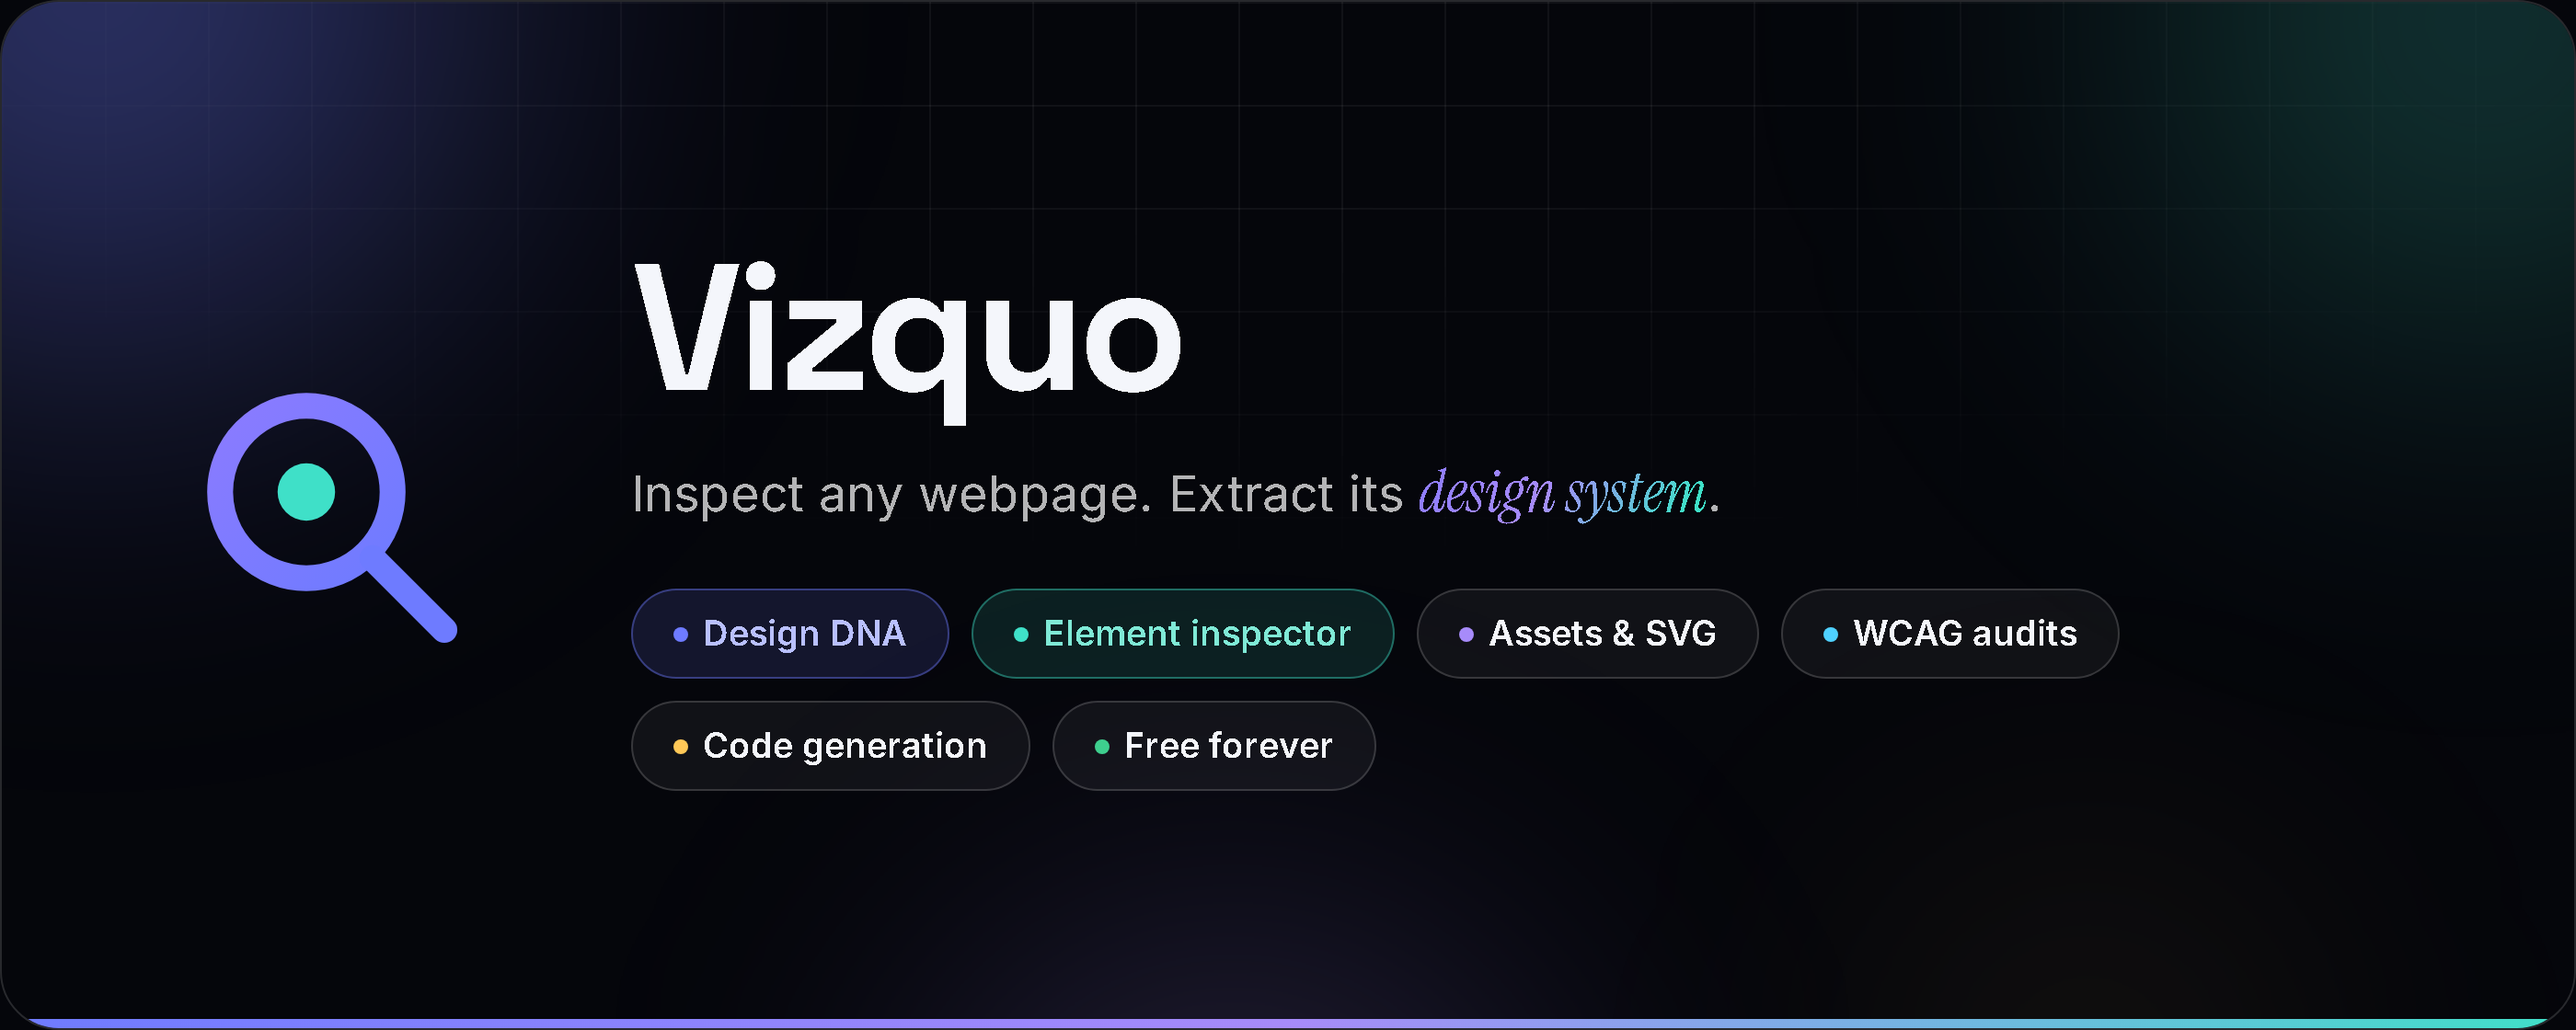
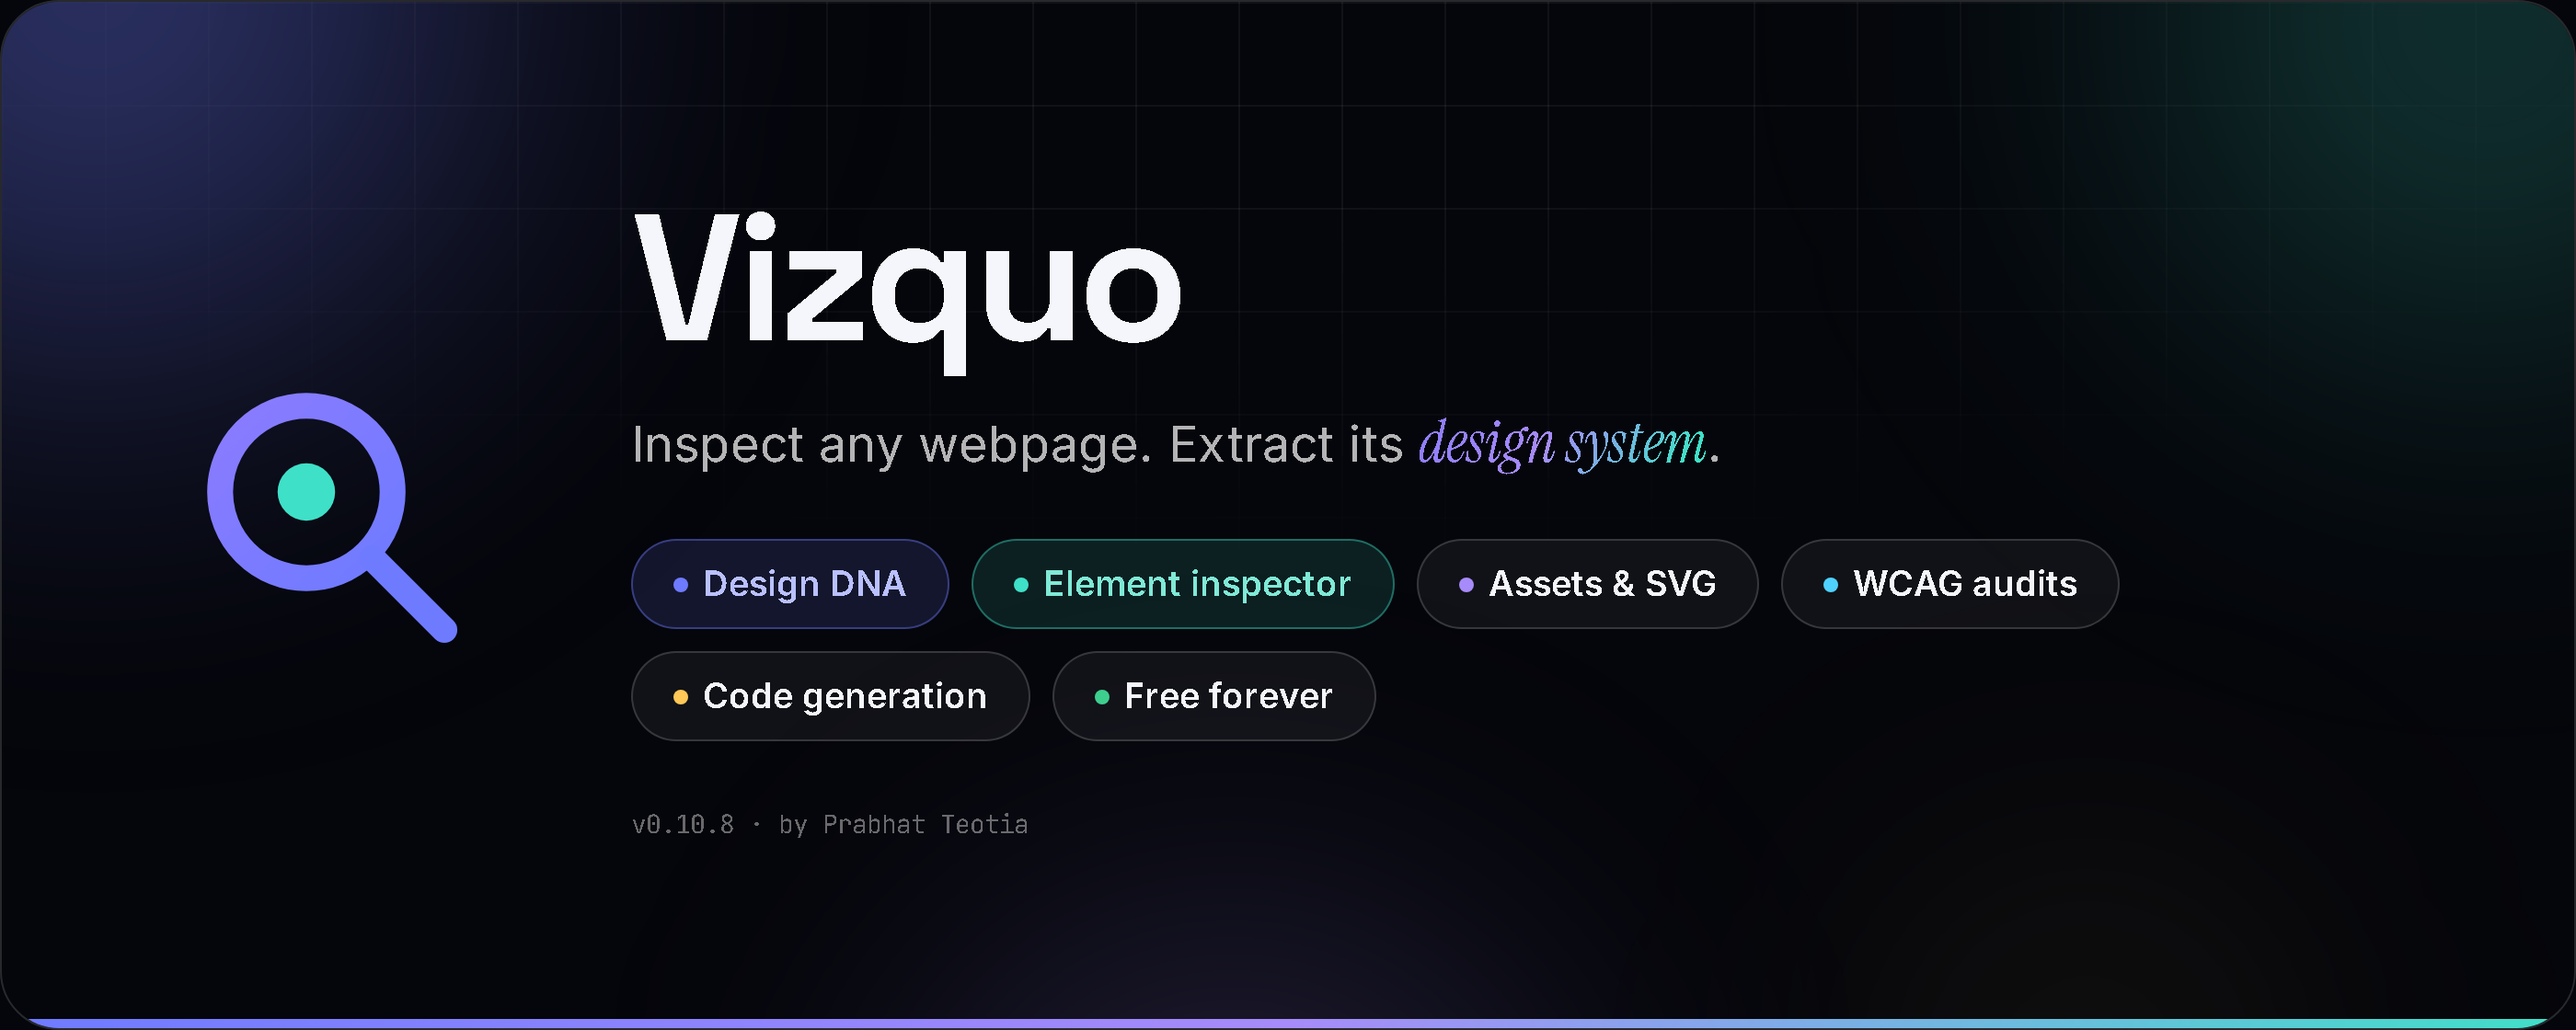
credit Prabhat Teotia as creator everywhere: APP_AUTHOR constant + Settings About panel + footer tooltip, manifest author (chrome://extensions), package.json, LICENSE copyright, README credits, landing footer/JSON-LD/hero pill, store listings publisher name, promo tiles + OG card caption, and creato

diff --git a/ui/screens/sidepanel/SettingsScreen.tsx b/ui/screens/sidepanel/SettingsScreen.tsx
@@ -21,6 +21,7 @@ import {
   AI_CUSTOM_MODEL,
   AI_MODELS,
   AI_PROVIDERS,
+  APP_AUTHOR,
   APP_NAME,
   APP_VERSION,
   INSPECTION_SCHEMA_VERSION,
@@ -875,6 +876,10 @@ export function SettingsScreen() {
       <Panel title={`About ${APP_NAME}`}>
         <div class="flex flex-col gap-1.5">
           <div class="flex items-center justify-between px-2 py-1">
+            <span class="text-[12px] text-[var(--vq-fg-muted)]">Created by</span>
+            <span class="text-[12px] font-medium text-[var(--vq-fg)]">{APP_AUTHOR}</span>
+          </div>
+          <div class="flex items-center justify-between px-2 py-1">
             <span class="text-[12px] text-[var(--vq-fg-muted)]">Version</span>
             <Badge tone="neutral" class="vq-nums">
               v{APP_VERSION}
@@ -887,8 +892,8 @@ export function SettingsScreen() {
             </Badge>
           </div>
           <p class="px-2 pt-1 text-[11px] leading-relaxed text-[var(--vq-fg-subtle)]">
-            {APP_NAME} is a design-intelligence layer for the web. All analysis runs locally;
-            nothing is uploaded, tracked, or sold.
+            {APP_NAME} is a design-intelligence layer for the web, created by {APP_AUTHOR}. All
+            analysis runs locally; nothing is uploaded, tracked, or sold.
           </p>
         </div>
       </Panel>

diff --git a/landing/index.html b/landing/index.html
@@ -25,6 +25,7 @@
   "@context": "https://schema.org",
   "@type": "SoftwareApplication",
   "name": "Vizquo",
+  "author": { "@type": "Person", "name": "Prabhat Teotia" },
   "applicationCategory": "DeveloperApplication",
   "operatingSystem": "Windows, macOS, Linux",
   "browserRequirements": "Chrome, Edge, Firefox, Brave, Opera, Vivaldi or Arc (Manifest V3)",
@@ -1059,7 +1060,7 @@
   </div>
   <div class="hero-vignette" aria-hidden="true"></div>
   <div class="wrap">
-    <span class="hero-pill reveal"><span class="dot"></span> v0.10.8 · Free &amp; open source · Works in 7 browsers</span>
+    <span class="hero-pill reveal"><span class="dot"></span> v0.10.8 · by Prabhat Teotia · Free &amp; open source</span>
     <h1 class="reveal" data-delay="1" data-split="words">
       Inspect any webpage.<br>
       Extract its <span class="serif">design system</span><span class="grad-text">.</span>
@@ -1638,7 +1639,7 @@
       </div>
     </div>
     <div class="footer-bottom">
-      <span>© 2026 Vizquo · Free &amp; open source (MIT)</span>
+      <span>© 2026 Vizquo · Created by <b style="color:var(--fg)">Prabhat Teotia</b> · Free &amp; open source (MIT)</span>
       <span class="tag"><b>v0.10.8</b> · local-first · zero network requests by default</span>
     </div>
   </div>

diff --git a/wxt.config.ts b/wxt.config.ts
@@ -16,6 +16,10 @@ export default defineConfig({
     name: 'Vizquo',
     short_name: 'Vizquo',
     description: 'Inspect anything. Understand everything. Build faster.',
+    // Creator credit — surfaced in chrome://extensions and store listings.
+    // WXT's manifest author type is the `{ email }` object shape; Chrome
+    // serializes the string form, so cast only for the type checker.
+    author: 'Prabhat Teotia' as unknown as { email: string },
     // The minimum working set — the content script is declared statically
     // below (no runtime injection API needed) and screenshot compositing runs
     // on the panel's own canvas, so scripting/offscreen stay out. activeTab is

diff --git a/ui/screens/sidepanel/Footer.tsx b/ui/screens/sidepanel/Footer.tsx
@@ -1,4 +1,4 @@
-import { APP_VERSION } from '../../../shared/constants';
+import { APP_AUTHOR, APP_VERSION } from '../../../shared/constants';
 import { setActivePanel, ui } from '../../stores/ui-store';
 
 const STATUS_META = {
@@ -26,7 +26,9 @@ export function Footer() {
         {meta().label}
         {ui.connection.latencyMs != null && ` · ${ui.connection.latencyMs}ms`}
       </button>
-      <span class="vq-nums">v{APP_VERSION}</span>
+      <span class="vq-nums" title={`Vizquo v${APP_VERSION} · created by ${APP_AUTHOR}`}>
+        v{APP_VERSION}
+      </span>
     </footer>
   );
 }

diff --git a/shared/constants.ts b/shared/constants.ts
@@ -4,6 +4,8 @@
 
 export const APP_NAME = 'Vizquo';
 export const APP_VERSION = '0.10.8';
+/** Creator / author credit — shown in the About panel, store listings, and docs. */
+export const APP_AUTHOR = 'Prabhat Teotia';
 
 /** Bump when the Inspection shape changes — invalidates all cached entries. */
 export const INSPECTION_SCHEMA_VERSION = 4;

diff --git a/README.md b/README.md
@@ -20,6 +20,10 @@
   <img src="https://img.shields.io/badge/license-MIT-green" alt="MIT license">
 </p>
 
+<p align="center">
+  <strong>Created by Prabhat Teotia</strong>
+</p>
+
 ---
 
 ## What is Vizquo?
@@ -154,3 +158,8 @@ node scripts/capture-screenshots.mjs    # → deploy-kit/screenshots/ (add CAPTU
 ## License
 
 [MIT](LICENSE)
+
+## Credits
+
+Created and maintained by **Prabhat Teotia** — designed, engineered, and
+shipped as a labor of love for the open web. <3

diff --git a/deploy-kit/store-listing.md b/deploy-kit/store-listing.md
@@ -5,6 +5,14 @@ Version: 0.10.8 · Build ZIPs: `.output/vizquo-0.10.8-chrome.zip` (Chrome + Edge
 
 ---
 
+## 0. Developer / publisher name
+
+**Prabhat Teotia** — enter this exact name as the developer/publisher in every
+store (Chrome Web Store, Edge Add-ons, Firefox AMO) so the credit is visible
+on the listing.
+
+---
+
 ## 1. Extension name
 
 **Vizquo** (short name: **Vizquo**)

diff --git a/deploy-kit/publish-checklist.md b/deploy-kit/publish-checklist.md
@@ -4,6 +4,8 @@ Everything below is **$0** except the Chrome Web Store, which charges a one-time
 **$5** developer fee (Google's rule — there is no free tier). Edge + Firefox
 reach most users for free.
 
+**Publisher name for every store: Prabhat Teotia** (see `store-listing.md` §0).
+
 ---
 
 ## ✅ Zero-cost path A — Microsoft Edge Add-ons (free, ~15 min)

diff --git a/DECISIONS.md b/DECISIONS.md
@@ -1,5 +1,8 @@
 # Decisions
 
+> Created by Prabhat Teotia
+
+
 A running log of non-obvious architectural choices and the smallest reasonable
 assumptions made while building. The master spec says: when a requirement is
 ambiguous, make the smallest reasonable assumption, state it here, and keep

diff --git a/DATA_MODEL.md b/DATA_MODEL.md
@@ -1,5 +1,8 @@
 # Data model
 
+> Created by Prabhat Teotia
+
+
 Normalized entity types live in `shared/types.ts` and are the single source of
 truth for every engine module and feature panel. Entity names follow the
 master spec (Section 3) and must not silently diverge.

diff --git a/deploy-kit/github-pages.md b/deploy-kit/github-pages.md
@@ -1,5 +1,8 @@
 # Host the privacy policy on GitHub Pages (free, ~10 minutes)
 
+> Created by Prabhat Teotia
+
+
 All three stores need a live privacy-policy URL. GitHub Pages hosts this repo
 for free — the policy lives at a permanent URL you paste into every store.
 

diff --git a/deploy-kit/edge-submission.md b/deploy-kit/edge-submission.md
@@ -1,5 +1,8 @@
 # Vizquo — Microsoft Edge Add-ons Submission Kit
 
+> Created by Prabhat Teotia
+
+
 **Everything you need to submit Vizquo to the Microsoft Edge Add-ons store — copy-paste ready.**
 
 - Store: **Edge Add-ons** (free, no developer fee)
